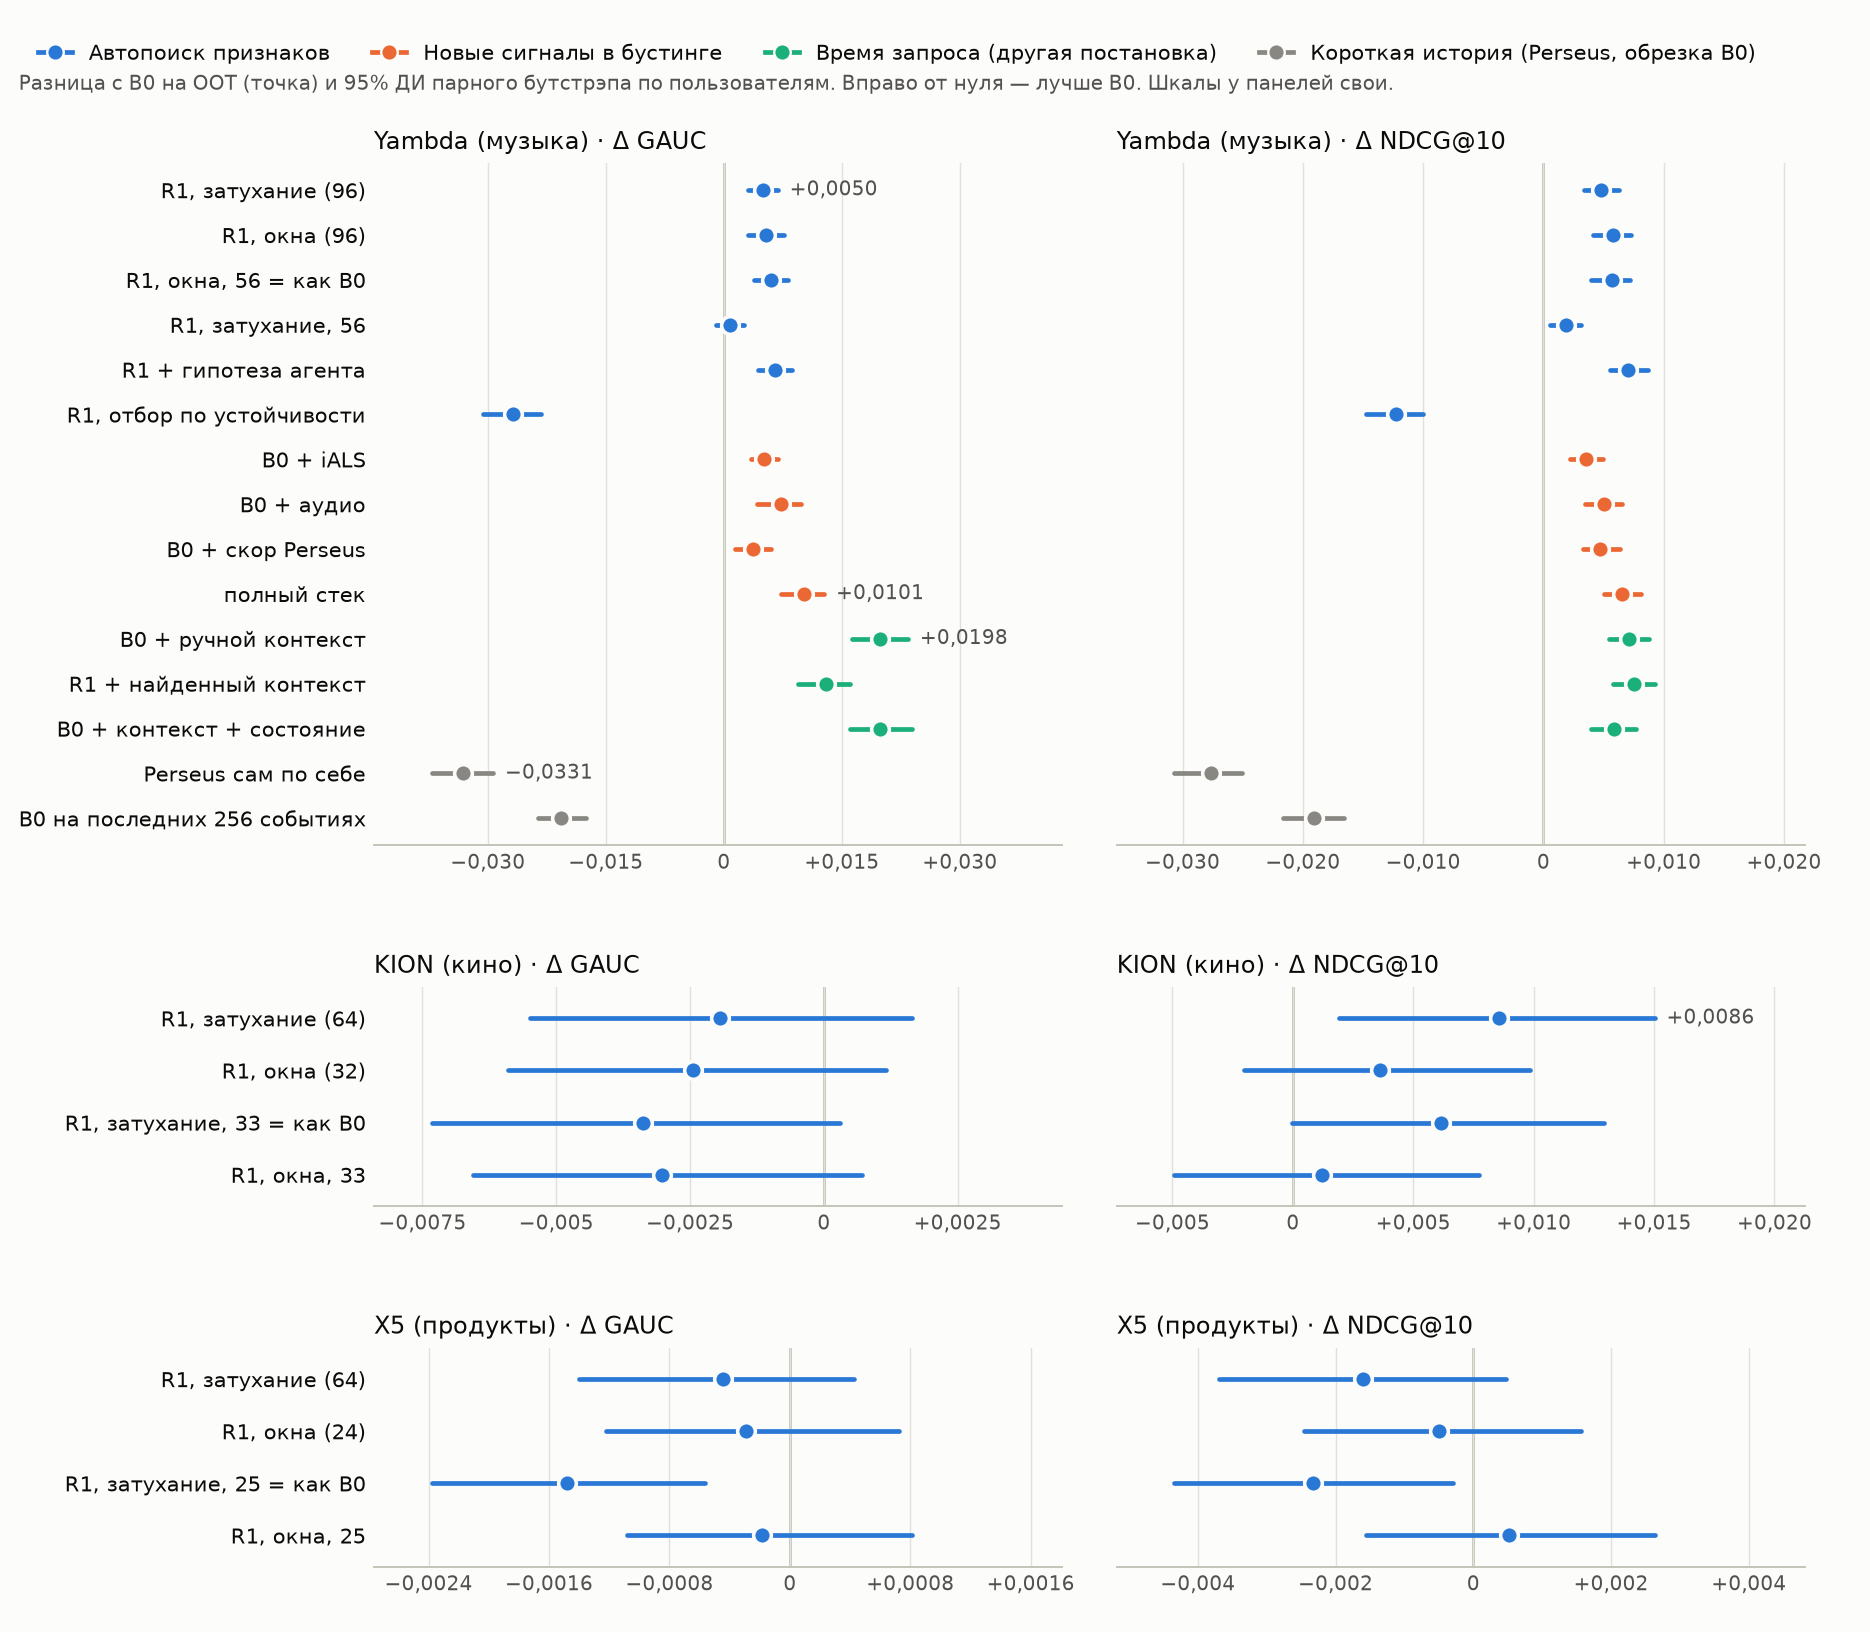
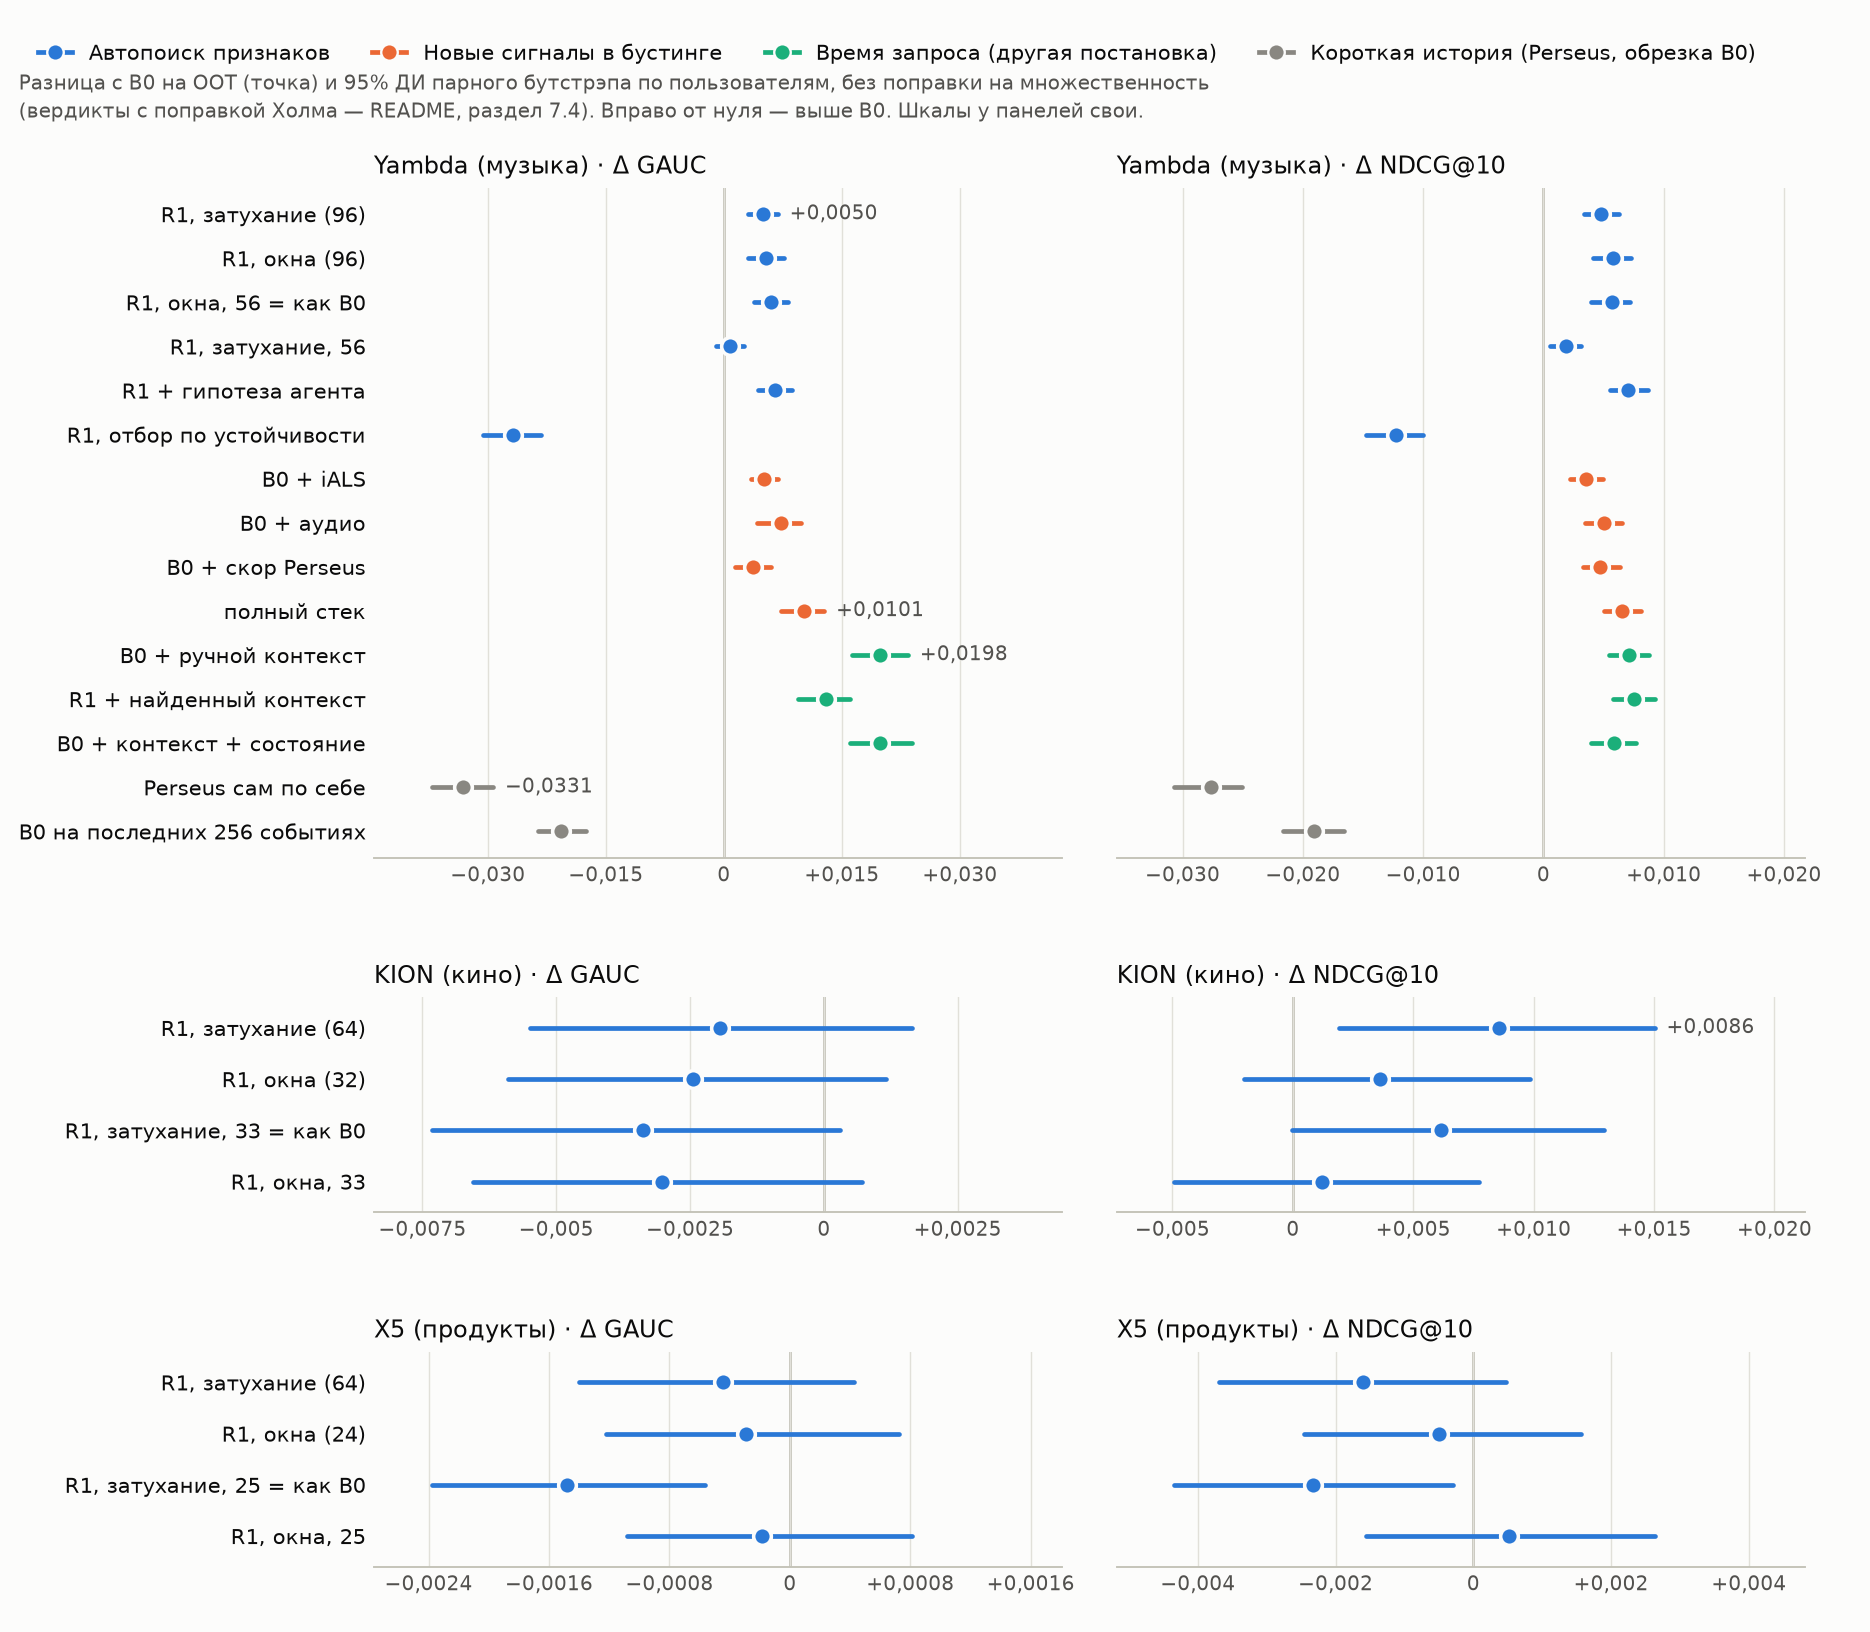
Repository maintenance
- repeat agreement: strictly later impressions, days before OOT only, chance from the pairs' own outcome shares: 69% vs 51% (110k pairs); "ceiling below 1" argued from identical day-start features
- session double-logging check described as a test of a narrow hypothesis; prediction rows checked unique and complete
- causal wording: windows vs decay = two search procedures, not weight shape; Perseus gap = history length plausible, B0 truncation keeps item aggregates on full history, ARGUS context-length result cited (numbers checked against the paper)
- 0.002 threshold = practical bound (one-feature difference), re-tuning spread not measured; "one tuning budget" = boosting tuning only
- figure: research branches only, unadjusted 95% CIs, Holm verdicts referenced
- data: 10k users, 9,238 with listens; boundary of manual work in R1 stated
- section 14: A without data, B main result from scratch (val and gated OOT for b0 and r1_decay), C full queue chain with real dependencies, KION/X5 raw layout, Perseus install and driver order; OOT for Perseus only through score_r3_oot.py

diff --git a/scripts/label_checks.py b/scripts/label_checks.py
@@ -1,12 +1,15 @@
-"""Two data checks behind README statements (Yambda; val stage only, nothing is trained or scored anew).
+"""Two data checks behind README statements (Yambda; days before OOT only, nothing is trained or scored anew).
 
   python scripts/label_checks.py
 
 1. Label noise: when the feed plays the same track to a user twice in a day, how often do both plays have the
-   same Listen+ outcome (task rows, days 273-300; consecutive plays of one (user, day, track)).
+   same Listen+ outcome (task rows, days 273-293; consecutive impressions of one (user, day, track), the later
+   strictly later in time). Chance agreement is computed from the outcome shares of the pairs themselves.
 2. Session branch vs double logging: GAUC of b0 and b0_sess on val-B, on all rows and without rows whose track
-   was already played to the user earlier that day (anywhere earlier / in the immediately preceding 5-second bin).
-   If the session gain came from the same play logged twice, it would vanish without those rows.
+   was already played to the user earlier that day (anywhere earlier / at the user's previous listening moment,
+   i.e. the previous occupied 5-second bin, which may be minutes or hours earlier). If the session gain came from
+   the same play logged twice, it would vanish without those rows. This tests only that narrow hypothesis:
+   misaligned features are the job of the invariance tests (tests/test_generic.py).
 
 Writes artifacts/label_checks.json.
 """
@@ -22,14 +25,17 @@ from tbrec.config import ART, PROC  # noqa: E402
 from tbrec.metrics import paired_bootstrap  # noqa: E402
 
 VAL_DAYS = (287, 293)
+LAST_DAY_BEFORE_OOT = 293
 
 
 def repeat_agreement(rows: pl.DataFrame) -> dict:
-    r = (rows.sort("uid", "day", "item", "t")
-         .with_columns(pl.col("y").shift(1).over("uid", "day", "item").alias("y_prev")))
-    p = r.filter(pl.col("y_prev").is_not_null())
+    r = (rows.filter(pl.col("day") <= LAST_DAY_BEFORE_OOT).sort("uid", "day", "item", "t")
+         .with_columns(pl.col("y").shift(1).over("uid", "day", "item").alias("y_prev"),
+                       pl.col("t").shift(1).over("uid", "day", "item").alias("t_prev")))
+    p = r.filter(pl.col("t_prev").is_not_null() & (pl.col("t_prev") < pl.col("t")))
+    a, b = float(p["y_prev"].mean()), float(p["y"].mean())
     return {"pairs": p.height, "same_outcome": float((p["y"] == p["y_prev"]).mean()),
-            "listen_plus_share": float(rows["y"].mean())}
+            "chance_same_outcome": a * b + (1 - a) * (1 - b), "listen_plus_share_rows": float(r["y"].mean())}
 
 
 def session_check(rows: pl.DataFrame) -> dict:
@@ -48,7 +54,10 @@ def session_check(rows: pl.DataFrame) -> dict:
          .with_columns((pl.col("t_first") < pl.col("t")).alias("seen_today"))
          .join(prev_same, on="row", how="left"))
     for b in ("b0", "b0_sess"):
-        v = v.join(pl.read_parquet(ART / "runs" / b / "pred_val.parquet").rename({"score": b}), on="row", how="left")
+        pred = pl.read_parquet(ART / "runs" / b / "pred_val.parquet")
+        assert pred["row"].is_unique().all(), b
+        v = v.join(pred.rename({"score": b}), on="row", how="left")
+    assert v.height == v["row"].n_unique() and v.select(pl.col("b0", "b0_sess").null_count()).sum_horizontal().item() == 0
     out = {"rows": v.height, "share_seen_today": float(v["seen_today"].mean()),
            "share_prev_bin_same_track": float(v["prev_same"].mean())}
     for name, sub in {"all": v, "without_seen_today": v.filter(~pl.col("seen_today")),

diff --git a/scripts/figures.py b/scripts/figures.py
@@ -107,9 +107,10 @@ def main():
             ax.set_title(f"{title} · {mname}", loc="left", fontsize=10, color=TEXT, pad=6)
     fig.legend(handles=[Line2D([], [], marker="o", color=c, lw=2, ms=7, mec=SURFACE, label=n) for n, c in FAMILIES.values()],
                loc="upper left", bbox_to_anchor=(0.01, 0.985), ncol=4, frameon=False, fontsize=9, handlelength=1.6)
-    fig.text(0.01, 0.945, "Разница с B0 на OOT (точка) и 95% ДИ парного бутстрэпа по пользователям. Вправо от нуля — лучше B0. "
-             "Шкалы у панелей свои.", fontsize=8.5, color=TEXT2)
-    fig.subplots_adjust(left=0.2, right=0.965, top=0.9, bottom=0.04)
+    fig.text(0.01, 0.928, "Разница с B0 на OOT (точка) и 95% ДИ парного бутстрэпа по пользователям, без поправки на множественность\n"
+             "(вердикты с поправкой Холма — README, раздел 7.4). Вправо от нуля — выше B0. Шкалы у панелей свои.",
+             fontsize=8.5, color=TEXT2, linespacing=1.4)
+    fig.subplots_adjust(left=0.2, right=0.965, top=0.885, bottom=0.04)
     OUT.parent.mkdir(parents=True, exist_ok=True)
     fig.savefig(OUT, dpi=170, facecolor=SURFACE)
     print(OUT)

diff --git a/external/probe_runtime.py b/external/probe_runtime.py
@@ -1,0 +1,21 @@
+"""Process-local workaround for restricted-runner Windows mkdir(0700) ACLs.
+
+No change to Perseus sources or machine settings; all temporary paths stay in external/.
+"""
+from pathlib import Path
+import tempfile
+import uuid
+
+def configure_tempdirs():
+    external=Path(__file__).resolve().parent
+    tmp=external/'tmp'
+    tmp.mkdir(exist_ok=True)
+    def mkdtemp(suffix=None,prefix=None,dir=None):
+        parent=Path(dir or tmp).resolve()
+        if not parent.is_relative_to(external):
+            raise ValueError('Temporary output outside external is forbidden')
+        path=parent/f'{prefix or "tmp"}{uuid.uuid4().hex}{suffix or ""}'
+        path.mkdir(mode=0o777)
+        return str(path)
+    tempfile.mkdtemp=mkdtemp
+    tempfile.tempdir=str(tmp)
